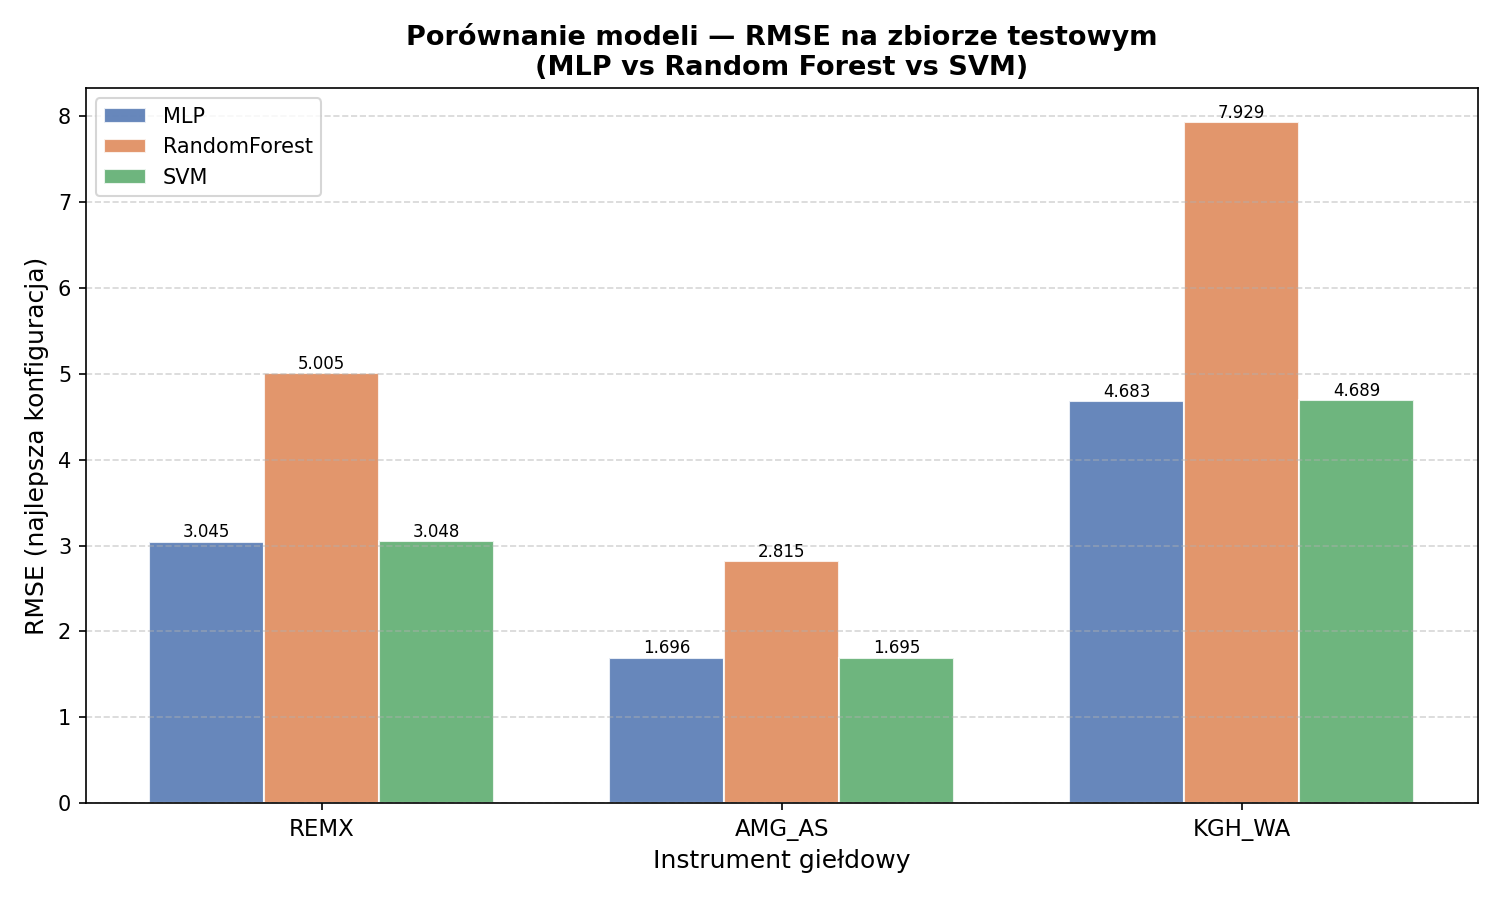
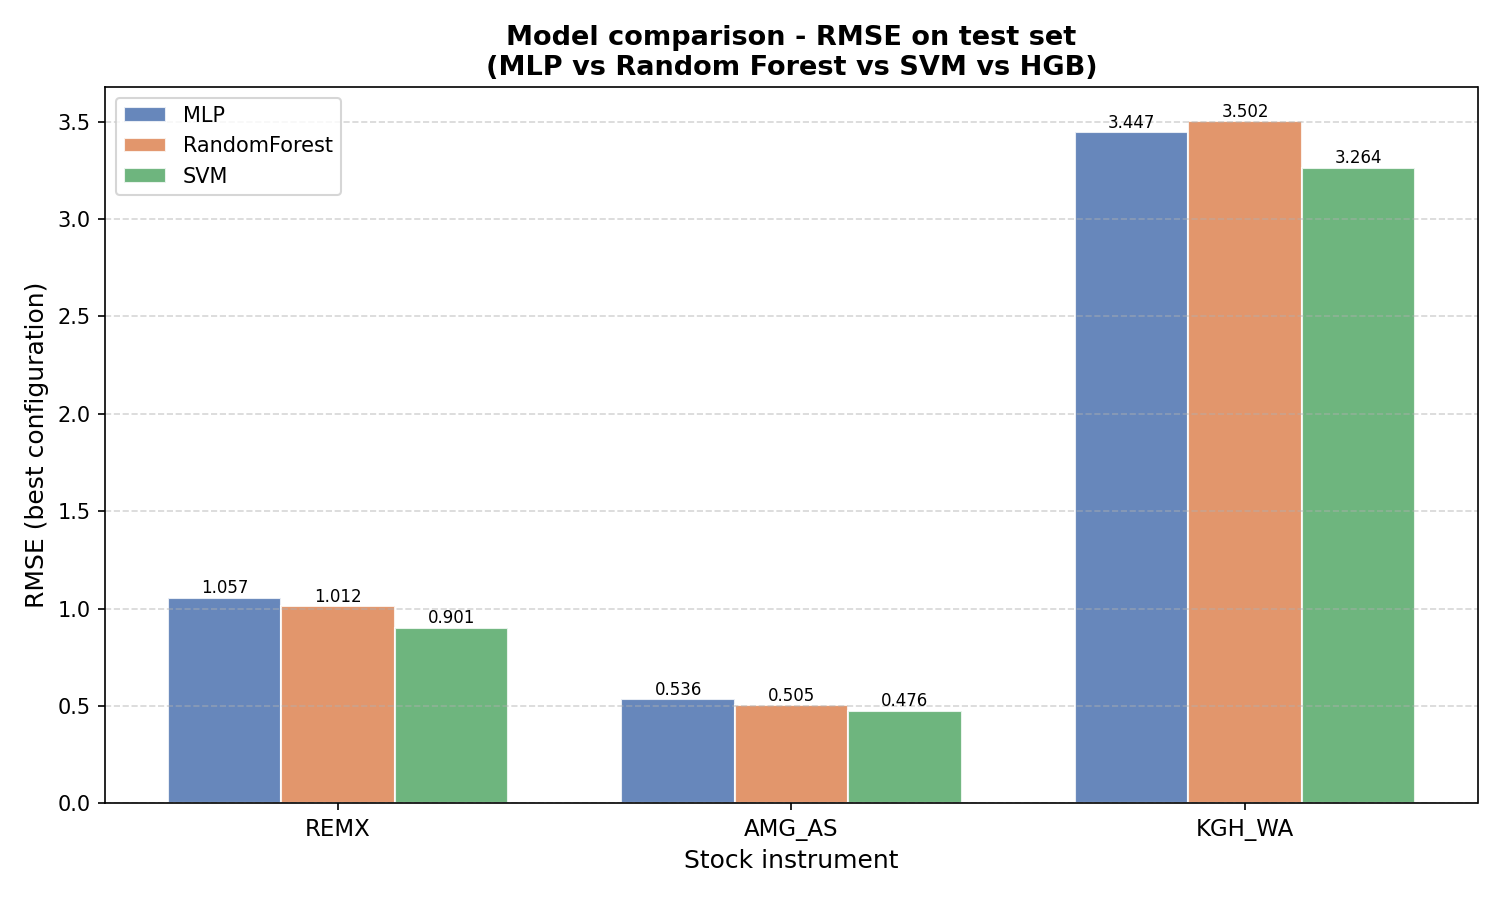
Hist Gradient Boosting algorythm addition with also broad modified data for training using Close_mean_5" and "Close_q75_5".
The data should help model to understand the values before.
The HGB algorythm was added to satisfy the requirement of the task.

diff --git a/models/hist_gradient_boosting.py b/models/hist_gradient_boosting.py
@@ -1,0 +1,42 @@
+from sklearn.ensemble import HistGradientBoostingRegressor
+
+
+class HistGradientBoostingModel:
+
+    def __init__(
+            self,
+            learning_rate=0.05,
+            max_depth=4,
+            max_iter=300,
+            random_state=42,
+    ):
+        self.learning_rate = learning_rate
+        self.max_depth = max_depth
+        self.max_iter = max_iter
+        self.random_state = random_state
+
+        self._model = HistGradientBoostingRegressor(
+            learning_rate=self.learning_rate,
+            max_depth=self.max_depth,
+            max_iter=self.max_iter,
+            random_state=self.random_state,
+        )
+
+    def train(self, X_train, y_train):
+        y_flat = y_train.ravel()
+        self._model.fit(X_train, y_flat)
+
+    def predict(self, X_test):
+        return self._model.predict(X_test).reshape(-1, 1)
+
+    def forward_propagation(self, X):
+        return self.predict(X)
+
+    def get_params(self):
+        return {
+            "model": "HistGradientBoosting",
+            "learning_rate": self.learning_rate,
+            "max_depth": self.max_depth,
+            "max_iter": self.max_iter,
+            "random_state": self.random_state,
+        }

diff --git a/experiments/compare_models.py b/experiments/compare_models.py
@@ -16,6 +16,7 @@ from evaluate.metrics import evaluate_model, rmse as rmse_fn, mae as mae_fn, dir
 from utils.preprocessing import load_and_preprocess
 from models.random_forest import RandomForestModel
 from models.svm_model import SVMModel
+from models.hist_gradient_boosting import HistGradientBoostingModel
 
 
 TICKERS = {
@@ -24,14 +25,15 @@ TICKERS = {
     "KGH_WA": os.path.join(ROOT, "data", "KGH_WA.csv"),
 }
 
-MLP_HIDDEN  = [10]
-MLP_LR      = 0.01
+MLP_HIDDEN  = [25]
+MLP_LR      = 0.0001
 MLP_EPOCHS  = 300
-INPUT_SIZE  = 5
+INPUT_SIZE  = 7
 OUTPUT_SIZE = 1
 
 RF_N_ESTIMATORS = [50, 100, 200]
 SVM_C_VALUES    = [0.1, 1.0, 10.0]
+HGB_MAX_ITER = [100, 200, 300]
 
 RESULTS_CSV = os.path.join(ROOT, "results", "comparison_results.csv")
 PLOT_PNG    = os.path.join(ROOT, "results", "plots", "model_comparison.png")
@@ -73,7 +75,15 @@ def train_svm(X_train, y_train, X_test, y_test, C):
     metrics = evaluate_sklearn(model, X_test, y_test)
     return metrics, elapsed
 
+def train_hgb(X_train, y_train, X_test, y_test, max_iter):
+    model = HistGradientBoostingModel(max_iter=max_iter)
 
+    t0 = time.time()
+    model.train(X_train, y_train)
+    elapsed = time.time() - t0
+
+    metrics = evaluate_sklearn(model, X_test, y_test)
+    return metrics, elapsed
 def print_table(rows):
     width = 100
     print("\n" + "=" * width)
@@ -115,7 +125,7 @@ def draw_plot(best_rmse, tickers, models):
     ax.set_xlabel("Stock instrument", fontsize=12)
     ax.set_ylabel("RMSE (best configuration)", fontsize=12)
     ax.set_title("Model comparison - RMSE on test set\n"
-                 "(MLP vs Random Forest vs SVM)", fontsize=13, fontweight="bold")
+                 "(MLP vs Random Forest vs SVM vs HGB)", fontsize=13, fontweight="bold")
     ax.set_xticks(x + width)
     ax.set_xticklabels(tickers, fontsize=11)
     ax.legend(fontsize=10)
@@ -196,6 +206,26 @@ def compare_models():
                 svm_rmse_min = metrics["rmse"]
 
         best_rmse[ticker]["SVM"] = svm_rmse_min
+
+        hgb_rmse_min = float("inf")
+        for it in HGB_MAX_ITER:
+            print(f"  [HGB] max_iter={it:<3} ...", end=" ", flush=True)
+            metrics, elapsed = train_hgb(X_train, y_train, X_test, y_test, it)
+            print(f"RMSE={metrics['rmse']:.4f}  Dir={metrics['direction_accuracy']:.1f}%")
+
+            all_rows.append({
+                "ticker": ticker,
+                "model": "HistGradientBoosting",
+                "parameters": f"max_iter={it}",
+                "mae": metrics["mae"],
+                "rmse": metrics["rmse"],
+                "direction_accuracy": metrics["direction_accuracy"],
+                "time_s": round(elapsed, 3),
+            })
+
+            hgb_rmse_min = min(hgb_rmse_min, metrics["rmse"])
+
+        best_rmse[ticker]["HistGradientBoosting"] = hgb_rmse_min
 
     df_results = pd.DataFrame(all_rows)
     df_results.to_csv(RESULTS_CSV, index=False, encoding="utf-8")

diff --git a/utils/preprocessing.py b/utils/preprocessing.py
@@ -3,7 +3,7 @@ import pandas as pd
 import os
 
 
-FEATURE_COLUMNS = ["Open", "High", "Low", "Close", "Volume"]
+FEATURE_COLUMNS = ["Open", "High", "Low", "Close", "Volume", "Close_mean_5", "Close_q75_5"]
 
 
 def load_csv(path):
@@ -12,7 +12,11 @@ def load_csv(path):
     df = pd.read_csv(path, index_col="Date", parse_dates=True)
     return df
 
-
+def add_historical_features(df, window=5):
+    df = df.copy()
+    df["Close_mean_5"] = df["Close"].rolling(window).mean()
+    df["Close_q75_5"] = df["Close"].rolling(window).quantile(0.75)
+    return df
 def compute_target(df):
     changes = df["Close"].diff(1).shift(-1)
     df = df.copy()
@@ -46,7 +50,9 @@ def chronological_split(X, y, train_ratio=0.8):
 
 def load_and_preprocess(path, train_ratio=0.8):
     df = load_csv(path)
+    df = add_historical_features(df)
     df = compute_target(df)
+    df = df.dropna()
 
     X = df[FEATURE_COLUMNS].values.astype(np.float64)
     y = df["price_change"].values.astype(np.float64).reshape(-1, 1)

diff --git a/config.py b/config.py
@@ -1,5 +1,5 @@
-INPUT_SIZE = 5
-HIDDEN_LAYERS = [5]
+INPUT_SIZE = 7
+HIDDEN_LAYERS = [25]
 OUTPUT_SIZE = 1
 EPOCHS = 200
-LEARNING_RATE = 0.01
+LEARNING_RATE = 0.0001

diff --git a/experiments/run_experiments.py b/experiments/run_experiments.py
@@ -24,7 +24,7 @@ HIDDEN_SIZES   = [[5], [10], [10, 5]]
 LEARNING_RATES = [0.01, 0.001]
 EPOCHS_LIST    = [100, 300, 500]
 
-INPUT_SIZE  = 5
+INPUT_SIZE  = 7
 OUTPUT_SIZE = 1
 
 RESULTS_CSV = os.path.join(ROOT, "results", "results.csv")